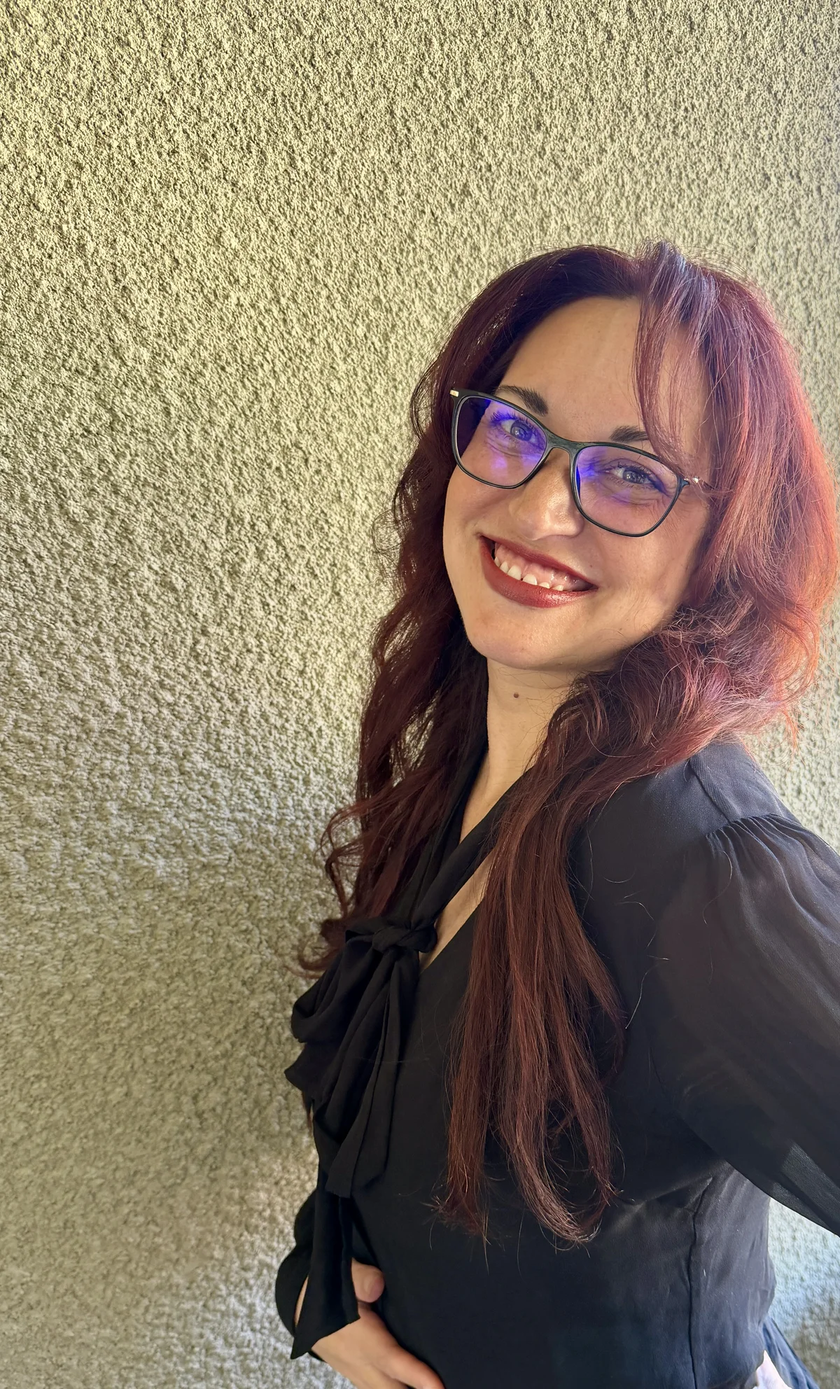
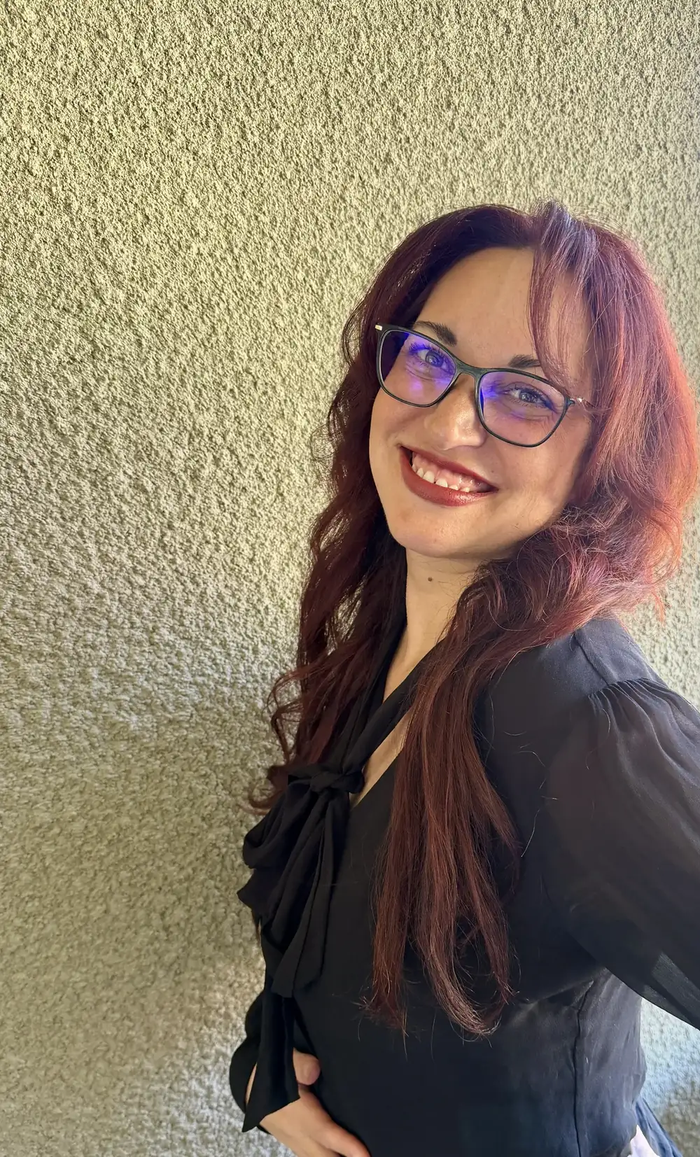
Klaudius build

diff --git a/src/app/page.tsx b/src/app/page.tsx
@@ -122,7 +122,7 @@ function Hero({ heroRef }: { heroRef: React.RefObject<HTMLElement | null> }) {
       {/* The lotus mark, blooming quietly out of the right edge. Its background
           is the exact same navy as the page, so it sits seamlessly. */}
       <div aria-hidden="true" className="pointer-events-none absolute -right-16 top-1/2 hidden w-[520px] -translate-y-1/2 select-none md:block lg:w-[620px]">
-        <img src="/images/lotus-mark.webp" alt="" className="w-full" />
+        <img src="/images/lotus-mark.webp" alt="" width={500} height={500} className="w-full" />
       </div>
 
       {/* Faint full-width thread behind the headline */}
@@ -184,7 +184,7 @@ function Hero({ heroRef }: { heroRef: React.RefObject<HTMLElement | null> }) {
 
       {/* Mobile lotus, below text */}
       <div aria-hidden="true" className="pointer-events-none relative mx-auto -mb-10 w-64 select-none md:hidden">
-        <img src="/images/lotus-mark.webp" alt="" className="w-full" />
+        <img src="/images/lotus-mark.webp" alt="" width={500} height={500} className="w-full" />
       </div>
     </section>
   );
@@ -314,6 +314,10 @@ function Story() {
                 <img
                   src="/images/melissa-story.webp"
                   alt="Melissa Burns, founder of the Ambient Thread Foundation"
+                  width={1000}
+                  height={1653}
+                  loading="lazy"
+                  decoding="async"
                   className="h-full w-full object-cover object-[center_30%]"
                 />
               </div>
@@ -604,6 +608,10 @@ function HowWereBuilding() {
                 <img
                   src="/images/stage-performance.webp"
                   alt="A stage performance in warm light, with flowing fabric wings unfurled"
+                  width={480}
+                  height={720}
+                  loading="lazy"
+                  decoding="async"
                   className="h-full w-full object-cover"
                 />
               </div>

diff --git a/src/app/admin/page.tsx b/src/app/admin/page.tsx
@@ -377,7 +377,7 @@ export default function AdminPage() {
         {/* Header */}
         <header className="flex flex-wrap items-center justify-between gap-4 pb-6">
           <div className="flex items-center gap-3">
-            <img src="/images/logo.png" alt="" className="h-10 w-10 rounded-sm object-contain" />
+            <img src="/images/logo.webp" alt="" width={128} height={128} className="h-10 w-10 rounded-sm object-contain" />
             <div>
               <p className="font-display text-base font-semibold tracking-[0.14em] text-paper">
                 AMBIENT THREAD
@@ -735,10 +735,18 @@ export default function AdminPage() {
                 </div>
                 <p className="mt-3 text-sm text-paper/55">
                   If Northwest will not accept @ as the Name, leave the Name field empty
-                  instead; both mean the domain itself. The old records currently pointing @
-                  and www at the WordPress host get deleted at the same time (we will identify
-                  those together).
+                  instead; both mean the domain itself.
                 </p>
+                <div className="mt-4 rounded-md bg-navy-raise p-4">
+                  <p className="text-sm text-paper/80">
+                    <span className="font-bold text-gold-bright">Order matters for www: </span>
+                    delete the old www record first (the A record pointing at 66.223.49.89, the
+                    old WordPress host), then add the CNAME. DNS does not allow a CNAME and an
+                    A record on the same name, so while the old www record exists the CNAME
+                    will not save or will not take effect. The old @ records pointing at the
+                    WordPress host get deleted the same way.
+                  </p>
+                </div>
 
                 <h2 className="font-display mt-10 text-xl font-semibold text-paper">
                   Email records (Resend)

diff --git a/src/components/SiteChrome.tsx b/src/components/SiteChrome.tsx
@@ -25,7 +25,7 @@ export function Nav() {
     <header className="fixed top-0 left-0 right-0 z-50 border-b border-white/10 bg-navy/90 backdrop-blur-md">
       <nav aria-label="Main navigation" className="mx-auto flex max-w-6xl items-center justify-between px-5 py-3 sm:px-8">
         <a href="/" className="flex items-center gap-3" onClick={() => setOpen(false)}>
-          <img src="/images/logo.png" alt="" className="h-11 w-11 rounded-sm object-contain" />
+          <img src="/images/logo.webp" alt="" width={128} height={128} className="h-11 w-11 rounded-sm object-contain" />
           <span className="font-display text-lg font-semibold tracking-[0.14em] text-paper">
             AMBIENT THREAD
             <span className="block text-[0.62rem] font-normal tracking-[0.3em] text-gold-bright">FOUNDATION</span>
@@ -102,7 +102,7 @@ export function Footer() {
       <div className="mx-auto max-w-6xl px-5 py-16 sm:px-8">
         <div className="flex flex-col items-start justify-between gap-10 md:flex-row md:items-center">
           <a href="/" className="flex items-center gap-3">
-            <img src="/images/logo.png" alt="" className="h-12 w-12 rounded-sm object-contain" />
+            <img src="/images/logo.webp" alt="" width={128} height={128} loading="lazy" className="h-12 w-12 rounded-sm object-contain" />
             <span className="font-display text-lg font-semibold tracking-[0.14em] text-paper">
               AMBIENT THREAD
               <span className="block text-[0.62rem] font-normal tracking-[0.3em] text-gold-bright">FOUNDATION</span>

diff --git a/supabase/functions/submit-lead/index.ts b/supabase/functions/submit-lead/index.ts
@@ -90,5 +90,32 @@ Deno.serve(async (req) => {
   });
   if (error) return json({ ok: false, error: "db" }, 500);
 
+  // Notify the foundation inbox. Best-effort: a mail hiccup must never fail
+  // the submission (the lead is already safe in the database).
+  const resendKey = Deno.env.get("RESEND_API_KEY");
+  if (resendKey) {
+    try {
+      await fetch("https://api.resend.com/emails", {
+        method: "POST",
+        headers: {
+          Authorization: `Bearer ${resendKey}`,
+          "Content-Type": "application/json",
+          // Resend sits behind Cloudflare, which rejects default non-browser agents.
+          "User-Agent":
+            "Mozilla/5.0 (X11; Linux x86_64) AppleWebKit/537.36 (KHTML, like Gecko) Chrome/128.0 Safari/537.36",
+        },
+        body: JSON.stringify({
+          from: "Ambient Thread Website <admin@ambientthread.org>",
+          to: ["AmbientThread@gmail.com"],
+          reply_to: email,
+          subject: `New website message: ${interest} (${name})`,
+          text: `${message}\n\nFrom: ${name}\nEmail: ${email}\nInterested in: ${interest}\n\nView all messages: https://ambient-thread.vercel.app/admin`,
+        }),
+      });
+    } catch {
+      /* lead is stored; notification failure is non-fatal */
+    }
+  }
+
   return json({ ok: true });
 });
